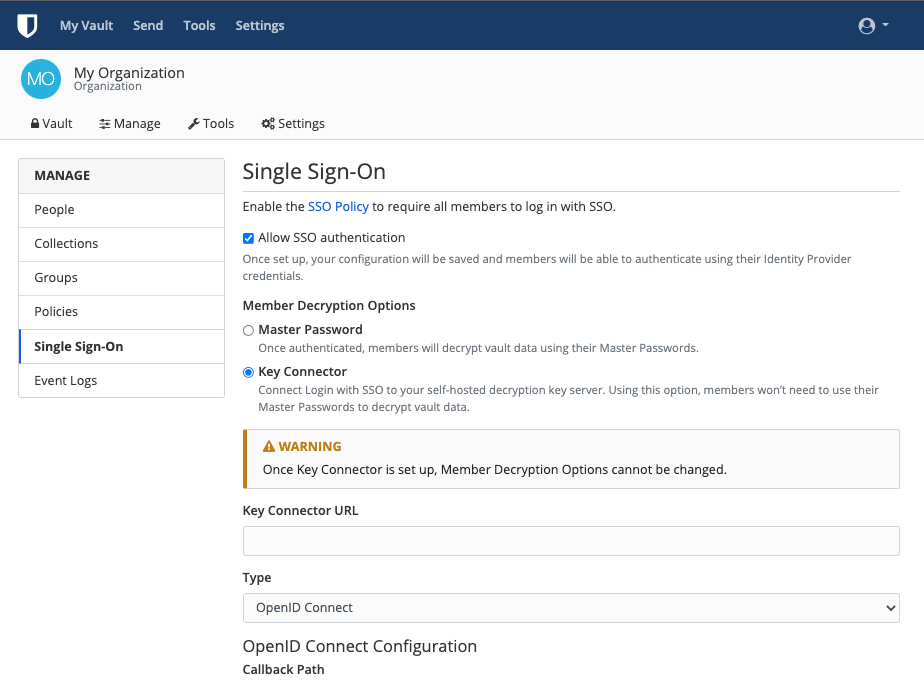
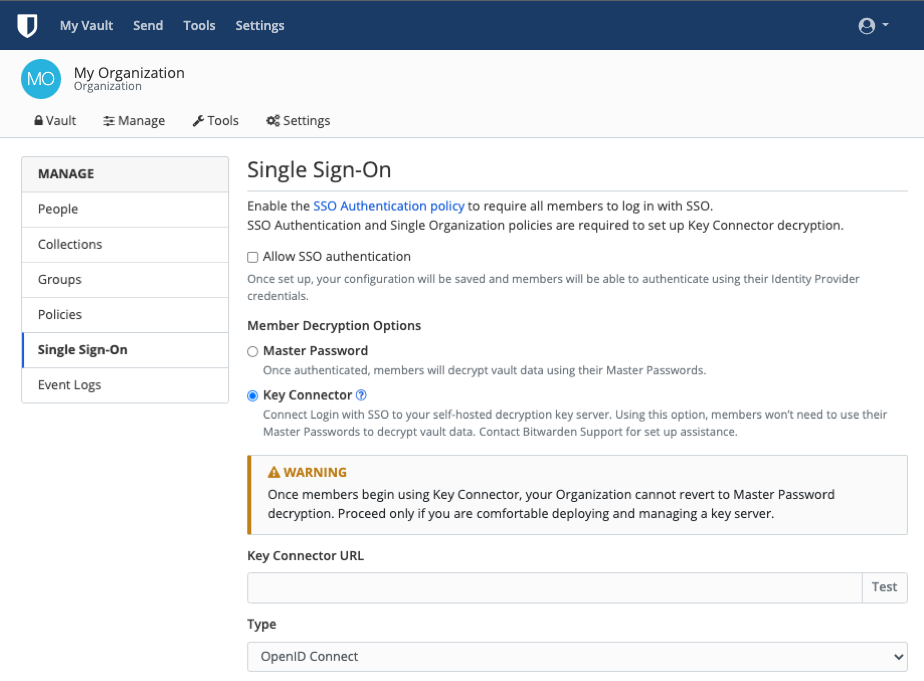
updated KC screenshot & test step

diff --git a/_articles/login-with-sso/deploy-key-connector.md b/_articles/login-with-sso/deploy-key-connector.md
@@ -327,5 +327,5 @@ Now that Key Connector is [fully configured](#configure-key-connector) and you h
    {% callout success %}The next few steps assume that you already have an active [Login with SSO]({{site.baseurl}}/article/about-sso/) implementation using [SAML 2.0]({{site.baseurl}}/article/configure-sso-saml/) or [OIDC]({{site.baseurl}}/article/configure-sso-oidc/). **If you don't**, please implement and test Login with SSO before proceeding.{% endcallout %}
    {% image sso/keyconnector/enable-keyconnector.png %}
 6. In the **Member Decryption Options** section, select **Key Connector**.
-7. In the **Key Connector URL** input, enter your...
+7. In the **Key Connector URL** input, enter your `PLACEHOLDER` and select the **Test** button to ensure you can reach Key Connector.
 8. Scroll to the bottom of the screen and select **Save**.
